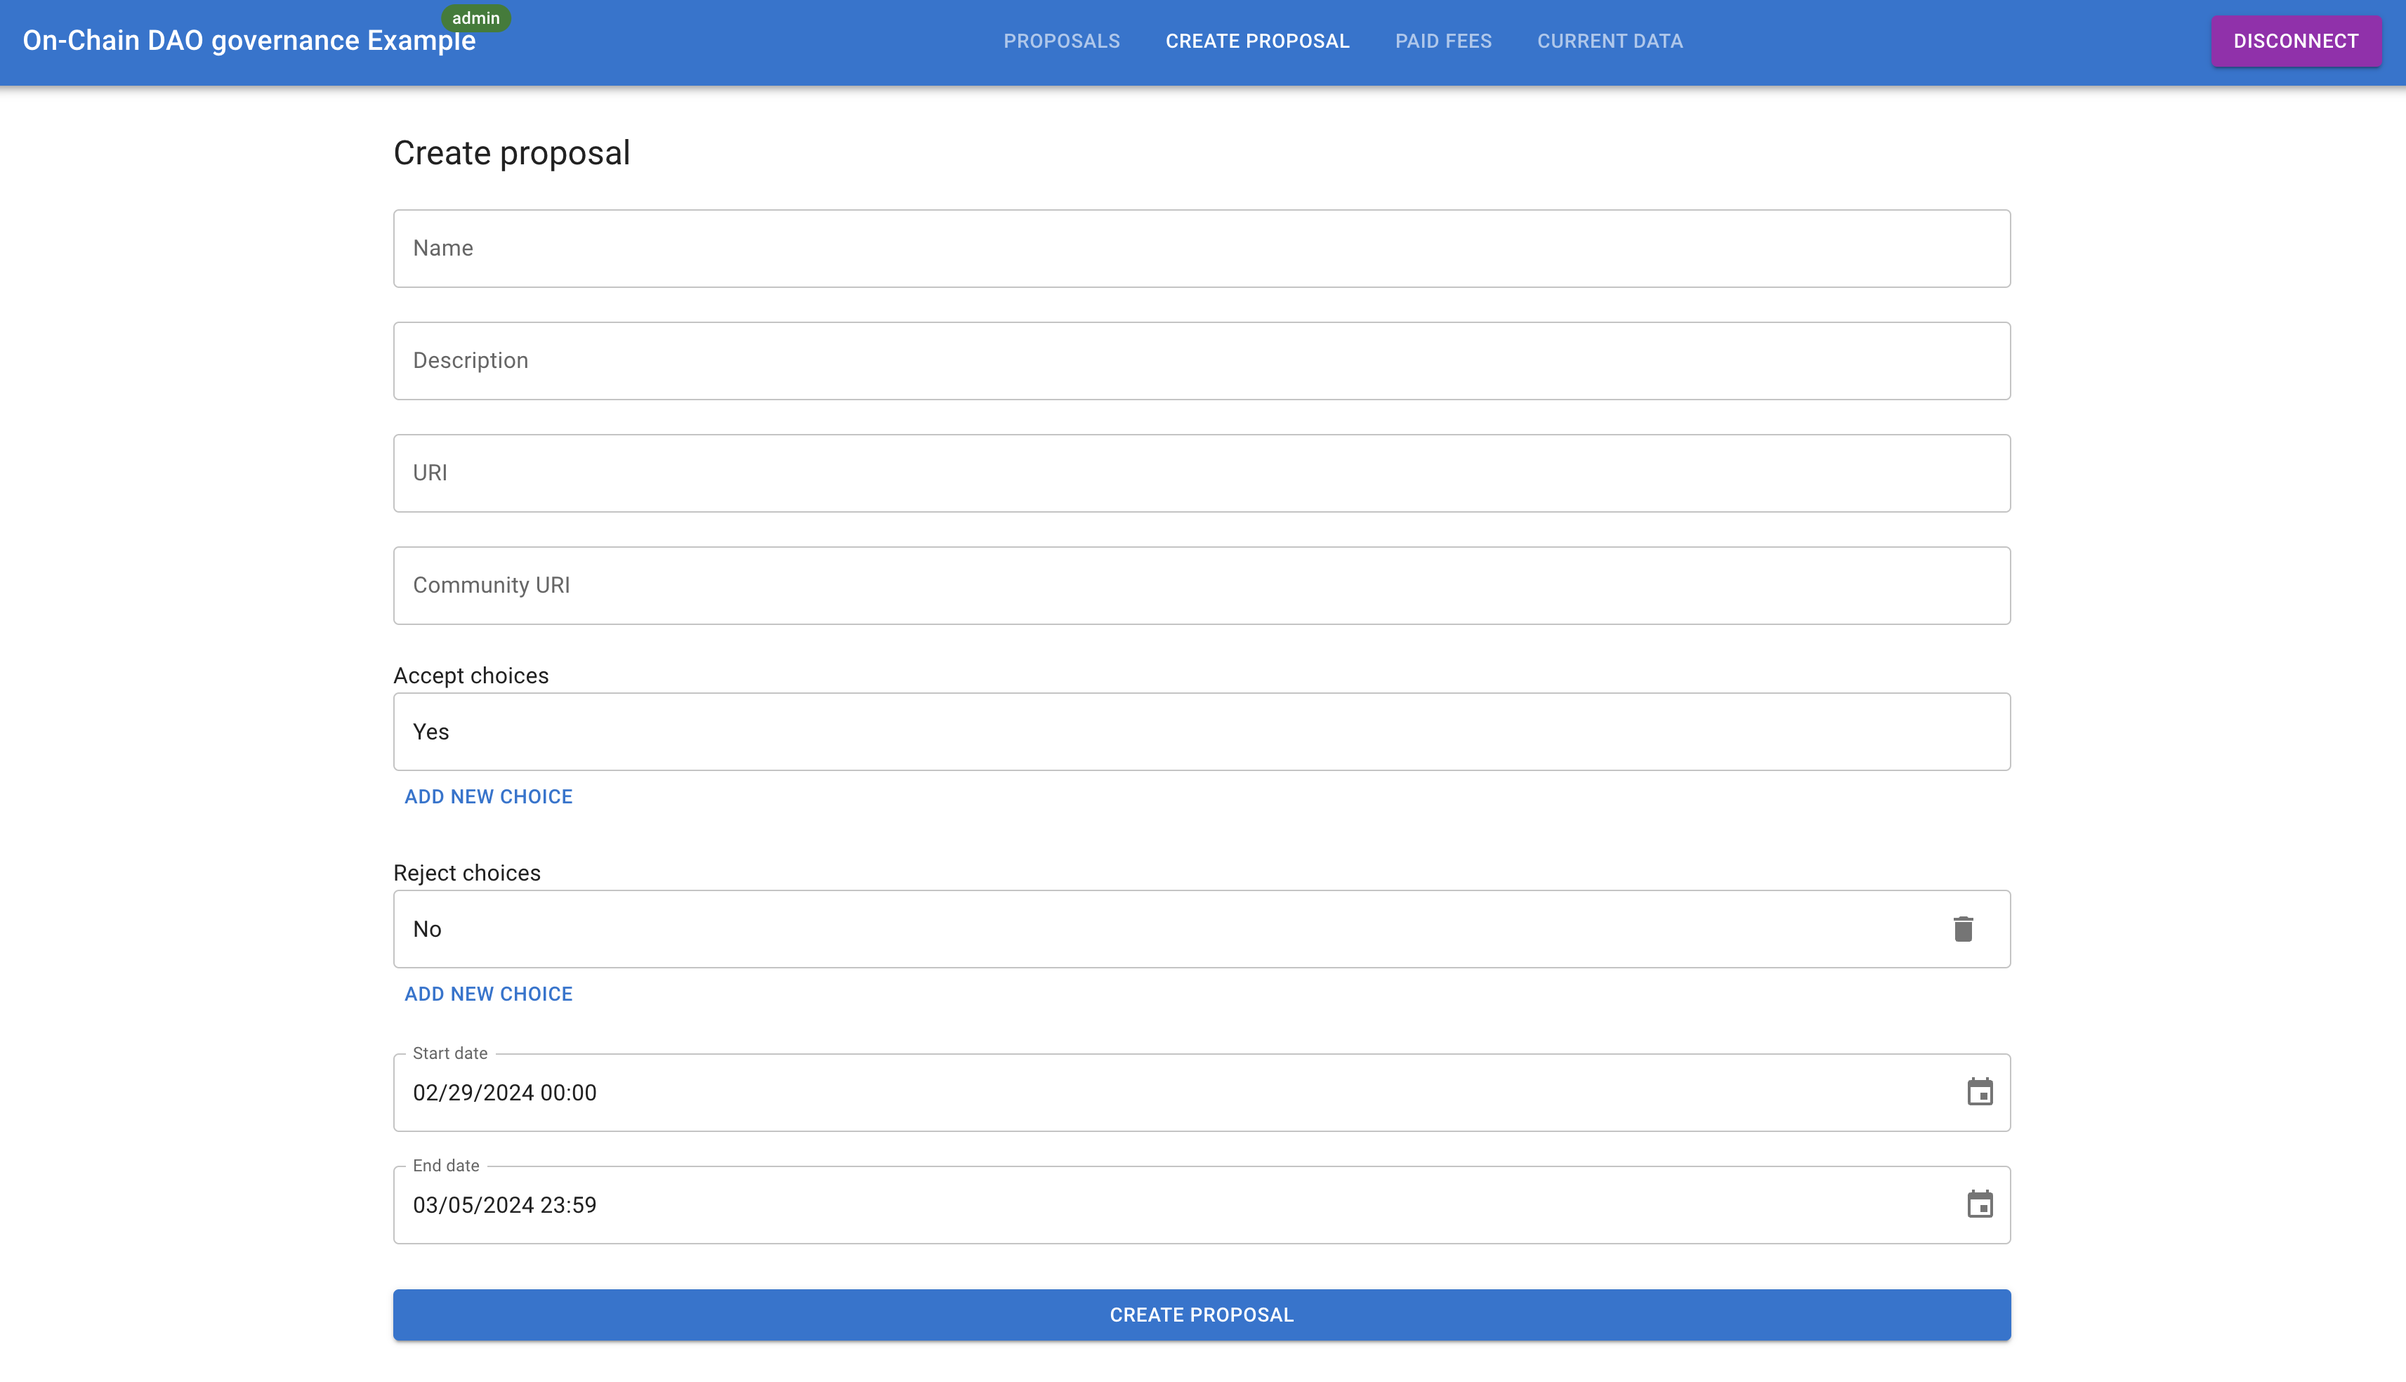
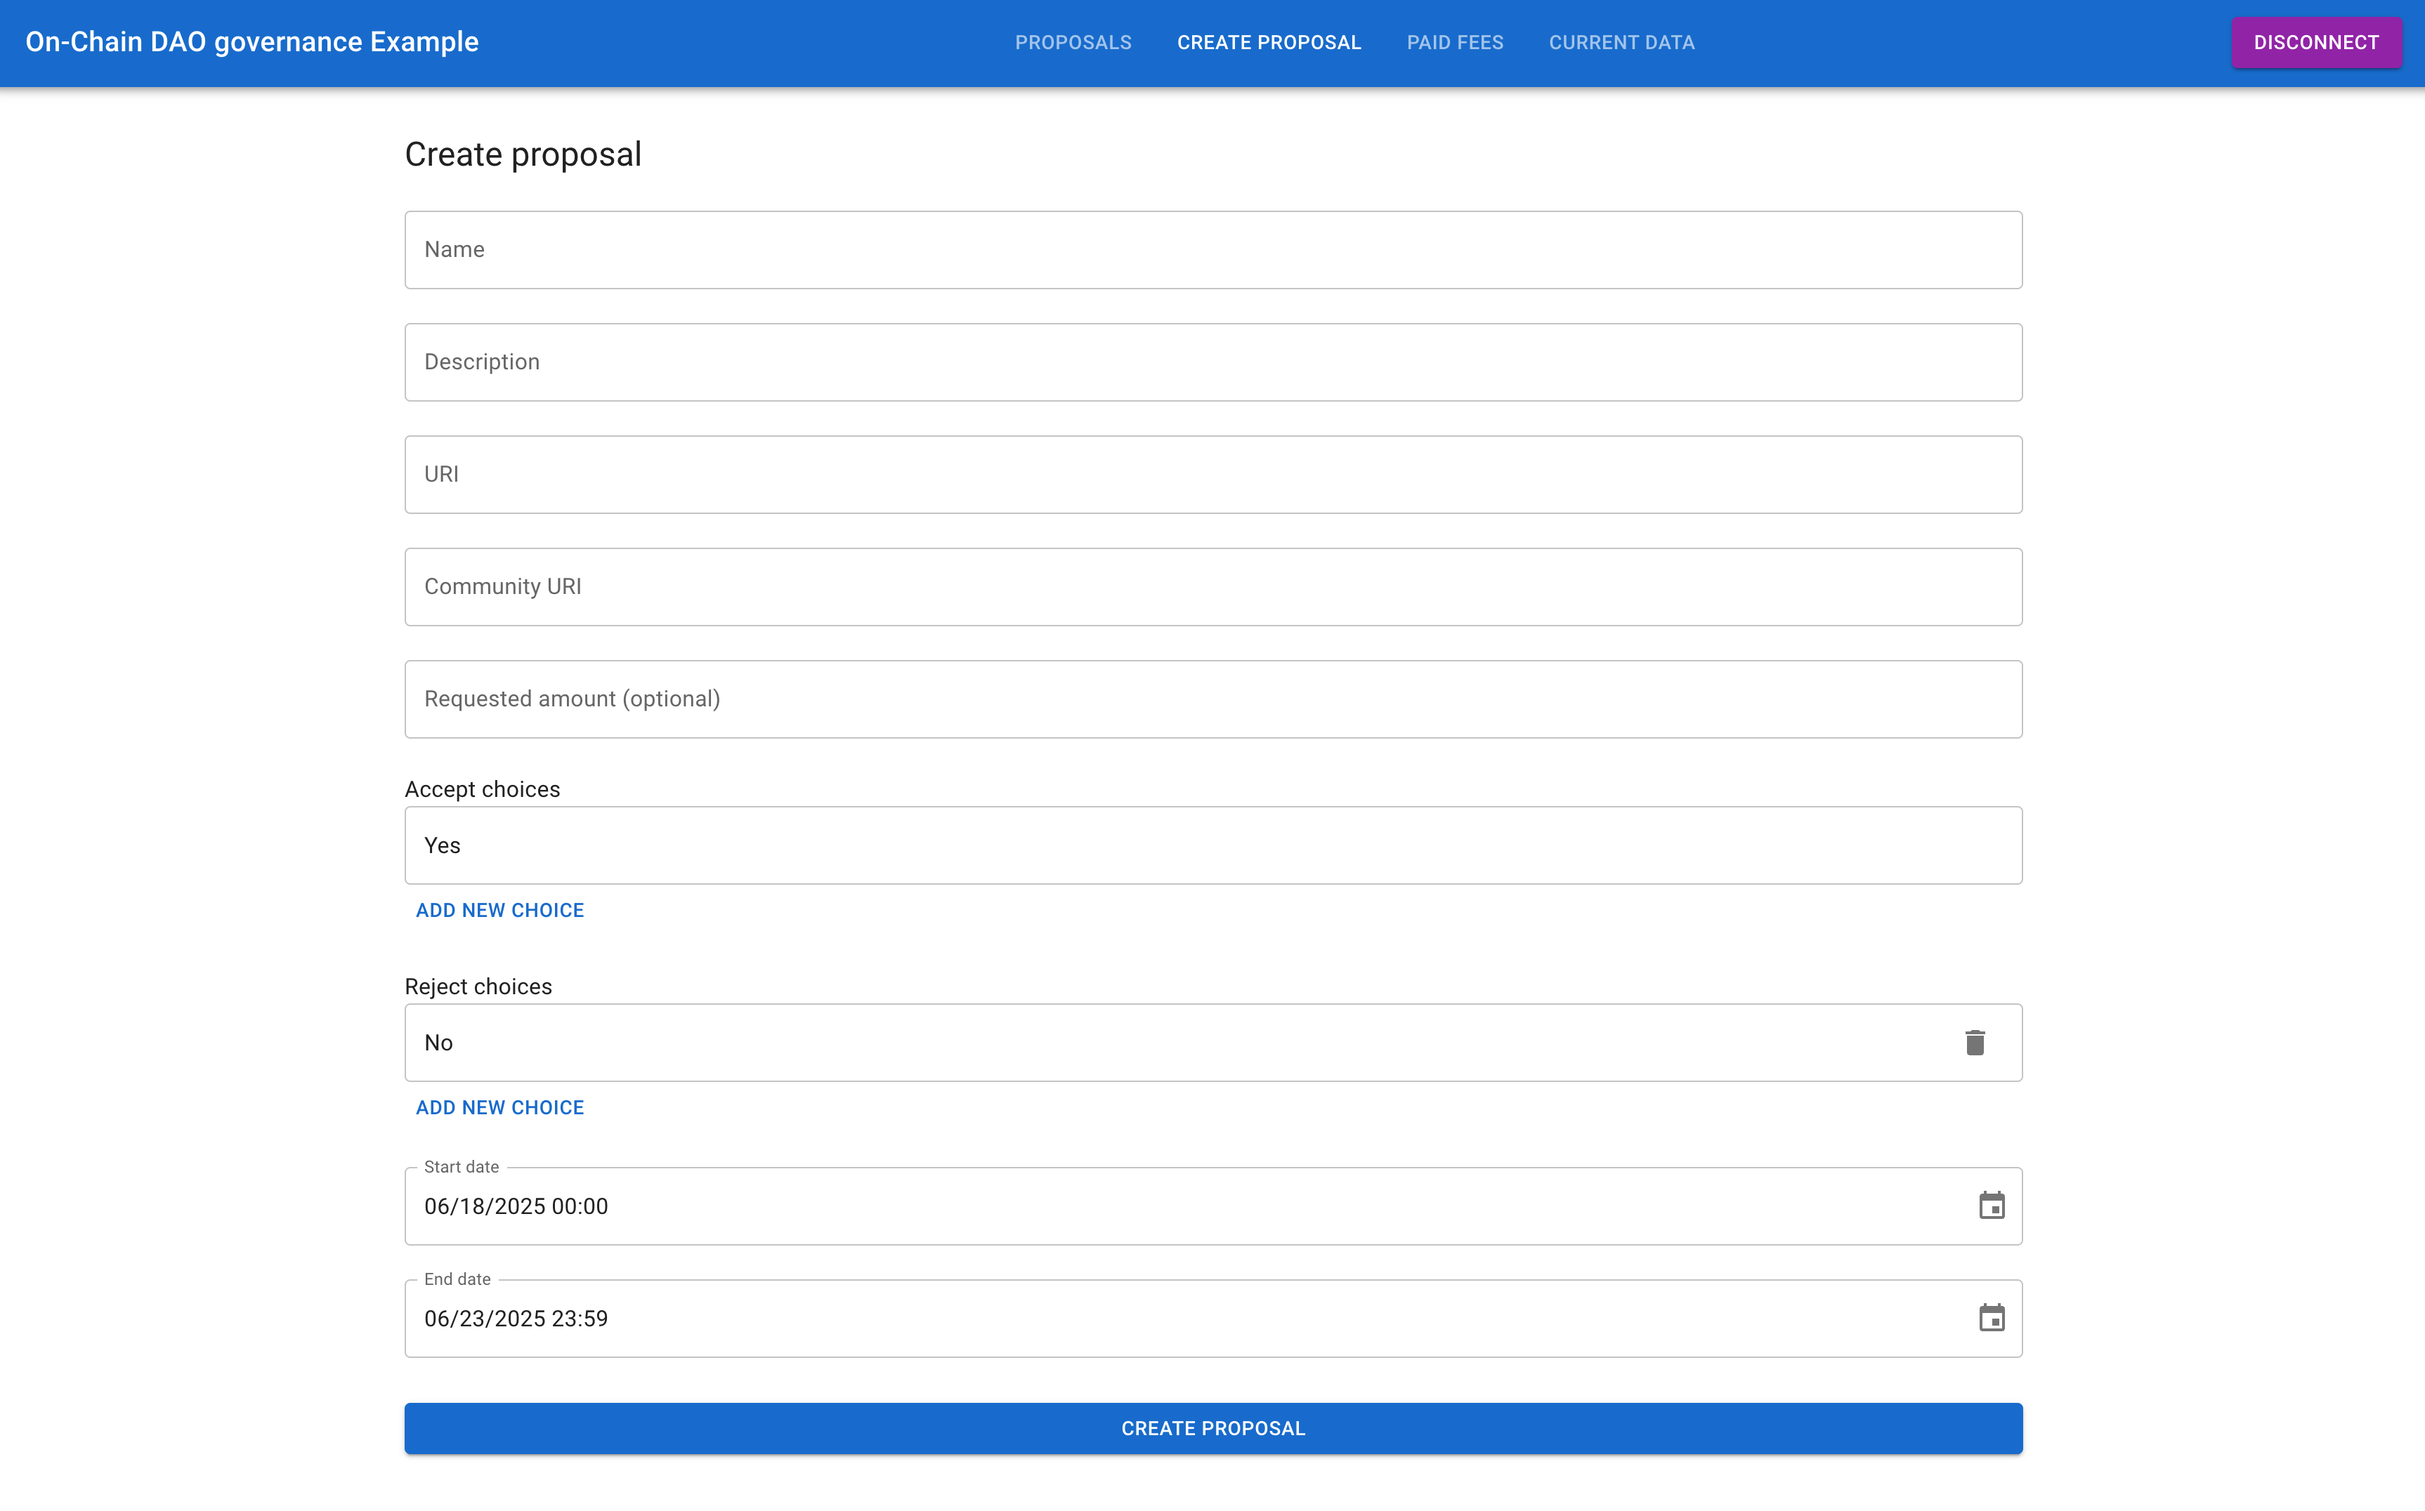
Add support for requested amount in proposals (#107)
* [SDK] Encode and decode requestAmount

* [BE] Store requestedAmount in the db and return it in the API

* [FE-SDK] Bump version

* [FE-EXAMPLE] Update the example app

* Review suggestions

diff --git a/frontend/react/example/src/features/createProposal/CreateProposal.tsx b/frontend/react/example/src/features/createProposal/CreateProposal.tsx
@@ -16,6 +16,7 @@ import {useVotingParamsQuery} from '@wingriders/governance-frontend-react-sdk'
 import {useUserBalance} from '../../helpers/userBalance'
 import {assetQuantity} from '@wingriders/cab/ledger/assets'
 import {AssetQuantityDisplay} from '../../components/AssetQuantityDisplay'
+import {BigNumber} from '@wingriders/cab/types'
 
 const DEFAULT_VALUES: CreateProposalForm = {
   name: '',
@@ -26,6 +27,7 @@ const DEFAULT_VALUES: CreateProposalForm = {
   rejectChoices: [{id: nanoid(), label: 'No'}],
   start: startOfDay(addDays(new Date(), 1)),
   end: endOfDay(addDays(new Date(), 6)),
+  requestedAmount: undefined,
 }
 
 export const CreateProposal = () => {
@@ -63,7 +65,7 @@ export const CreateProposal = () => {
   const hasEnoughChoices = compact(acceptChoices).length + compact(rejectChoices).length >= 2
 
   const handleCreateProposal = async (data: CreateProposalForm) => {
-    if (!ownerAddress) return
+    if (!ownerAddress || !governanceToken) return
 
     const {isSuccess} = await createProposal({
       poll: {
@@ -80,6 +82,9 @@ export const CreateProposal = () => {
         communityUri: data.communityUri,
         acceptChoices: data.acceptChoices.map((choice) => choice.label),
         rejectChoices: data.rejectChoices.map((choice) => choice.label),
+        requestedAmount: data.requestedAmount
+          ? new BigNumber(data.requestedAmount).shiftedBy(governanceToken.metadata?.decimals ?? 0)
+          : undefined,
       },
     })
 
@@ -154,6 +159,31 @@ export const CreateProposal = () => {
                   {...field}
                   placeholder="https://community.yourapp.com/"
                   label="Community URI"
+                  size="medium"
+                />
+              )}
+              errors={errors}
+            />
+            <InputField
+              name="requestedAmount"
+              control={control}
+              rules={{
+                required: false,
+                validate: (value) => {
+                  if (!value) return true
+
+                  const parsedValue = new BigNumber(value)
+                  if (parsedValue.isNaN()) return 'Invalid amount'
+                  if (parsedValue.lte(0)) return 'Amount must be greater than 0'
+
+                  return true
+                },
+              }}
+              render={({field}) => (
+                <TextField
+                  {...field}
+                  placeholder="1000"
+                  label="Requested amount (optional)"
                   size="medium"
                 />
               )}

diff --git a/sdk/src/helpers/encodeMetadatum.ts b/sdk/src/helpers/encodeMetadatum.ts
@@ -18,15 +18,21 @@ import {
 } from '../types'
 
 export function encodeProposalMetadatum(proposal: ProposalMetadatum): TxMetadatumMap {
-  const encodedProposalProperties: TxMetadatumMap = new Map<TxMetadatum, TxMetadatum>([
-    [CborProposalField.PROPOSAL_OWNER, Buffer.from(addressToHex(proposal.owner), 'hex')],
-    [CborProposalField.PROPOSAL_NAME, proposal.name],
-    [CborProposalField.PROPOSAL_DESCRIPTION, splitMetadatumString(proposal.description)],
-    [CborProposalField.PROPOSAL_URI, proposal.uri],
-    [CborProposalField.PROPOSAL_COMMUNITY_URI, proposal.communityUri],
-    [CborProposalField.PROPOSAL_ACCEPT_CHOICES, proposal.acceptChoices],
-    [CborProposalField.PROPOSAL_REJECT_CHOICES, proposal.rejectChoices],
-  ])
+  const encodedProposalProperties: TxMetadatumMap = new Map<TxMetadatum, TxMetadatum>(
+    compact([
+      [CborProposalField.PROPOSAL_OWNER, Buffer.from(addressToHex(proposal.owner), 'hex')],
+      [CborProposalField.PROPOSAL_NAME, proposal.name],
+      [CborProposalField.PROPOSAL_DESCRIPTION, splitMetadatumString(proposal.description)],
+      [CborProposalField.PROPOSAL_URI, proposal.uri],
+      [CborProposalField.PROPOSAL_COMMUNITY_URI, proposal.communityUri],
+      [CborProposalField.PROPOSAL_ACCEPT_CHOICES, proposal.acceptChoices],
+      [CborProposalField.PROPOSAL_REJECT_CHOICES, proposal.rejectChoices],
+      proposal.requestedAmount && [
+        CborProposalField.PROPOSAL_REQUESTED_AMOUNT,
+        proposal.requestedAmount.toString(),
+      ],
+    ])
+  )
   return encodedProposalProperties
 }
 

diff --git a/frontend/react/example/src/features/proposals/Proposal.tsx b/frontend/react/example/src/features/proposals/Proposal.tsx
@@ -190,6 +190,29 @@ export const Proposal = ({proposal}: ProposalProps) => {
             </Stack>
           </Grid>
 
+          <>
+            <Grid item xs={8}>
+              <Typography variant="subtitle1" fontWeight="bold">
+                Requested amount:
+              </Typography>
+            </Grid>
+            <Grid item xs={4}>
+              <Typography variant="subtitle1" textAlign="end">
+                {proposal.requestedAmount ? (
+                  <AssetQuantityDisplay
+                    token={{
+                      ...votingParams.governanceToken.asset,
+                      quantity: new BigNumber(proposal.requestedAmount),
+                    }}
+                    assetMetadata={votingParams.governanceToken.metadata}
+                  />
+                ) : (
+                  '-'
+                )}
+              </Typography>
+            </Grid>
+          </>
+
           <Grid item xs={8}>
             <Typography variant="subtitle1" fontWeight="bold">
               Your voting power for this proposal:

diff --git a/sdk/src/types.ts b/sdk/src/types.ts
@@ -36,6 +36,7 @@ export enum CborProposalField {
   PROPOSAL_COMMUNITY_URI = 'communityUri',
   PROPOSAL_ACCEPT_CHOICES = 'acceptChoices',
   PROPOSAL_REJECT_CHOICES = 'rejectChoices',
+  PROPOSAL_REQUESTED_AMOUNT = 'requestedAmount',
 }
 
 export enum CborPollField {
@@ -68,6 +69,7 @@ export type ProposalMetadatum = {
   communityUri: string /* community discussion link max 64 bytes. Use url shortener. Ideally community page link */
   acceptChoices: string[] /* List of choices that would lead to accept the proposal, each max 64 bytes */
   rejectChoices: string[] /* List of choices that would lead to reject the proposal, each max 64 bytes */
+  requestedAmount?: BigNumber
 }
 
 export type Proposal = ProposalMetadatum & {
@@ -218,6 +220,7 @@ export type ProposalDetails = {
   status: ProposalStatus
   acceptChoices: string[]
   rejectChoices: string[]
+  requestedAmount?: string
 }
 
 export type ProposalResponse = ProposalDetails & {

diff --git a/sdk/src/helpers/metadata.ts b/sdk/src/helpers/metadata.ts
@@ -1,7 +1,7 @@
 import {isArray, isMap, isString} from 'lodash'
 
 import {encodeAddress} from '@wingriders/cab/ledger/address'
-import {Address, TxMetadatum} from '@wingriders/cab/types'
+import {Address, BigNumber, TxMetadatum} from '@wingriders/cab/types'
 
 export function parseBuffer(datum: TxMetadatum | undefined): Buffer {
   if (!Buffer.isBuffer(datum)) {
@@ -35,6 +35,14 @@ export function parseInteger(datum: TxMetadatum | undefined): number {
   } else {
     throw new Error(`Metadatum is not a integer ${datum}`)
   }
+}
+
+export function parseBigNumber(datum: TxMetadatum | undefined): BigNumber {
+  if (typeof datum === 'string' || typeof datum === 'number') {
+    const num = new BigNumber(datum)
+    if (!num.isNaN()) return num
+  }
+  throw new Error(`Metadatum is not a number ${datum}`)
 }
 
 export function parseString(datum: TxMetadatum | undefined): string {

diff --git a/sdk/src/helpers/decodeMetadatum.ts b/sdk/src/helpers/decodeMetadatum.ts
@@ -18,6 +18,7 @@ import {
   assertMetadatumMap,
   parseAddressBuffer,
   parseArray,
+  parseBigNumber,
   parseBuffer,
   parseInteger,
   parseNumber,
@@ -39,6 +40,9 @@ export const decodeProposalMetadatum = (proposalMetadatum: TxMetadatumMap): Prop
     proposalMetadatum.get(CborProposalField.PROPOSAL_REJECT_CHOICES)
   )
 
+  const requestedAmountField = proposalMetadatum.get(CborProposalField.PROPOSAL_REQUESTED_AMOUNT)
+  const requestedAmount = requestedAmountField ? parseBigNumber(requestedAmountField) : undefined
+
   if (acceptChoices.length === 0 && rejectChoices.length === 0) {
     throw new Error('Proposal needs at least 1 choice')
   }
@@ -51,6 +55,7 @@ export const decodeProposalMetadatum = (proposalMetadatum: TxMetadatumMap): Prop
     communityUri,
     acceptChoices,
     rejectChoices,
+    requestedAmount,
   }
 }
 

diff --git a/backend/src/server/routes/toApiProposalDetails.ts b/backend/src/server/routes/toApiProposalDetails.ts
@@ -23,7 +23,15 @@ const dbProposalStatusToApiProposalStatus = (dbProposalStatus: DbProposalStatus)
 
 type DbProposalWithDetails = Pick<
   Proposal,
-  'txHash' | 'outputIndex' | 'ownerAddress' | 'name' | 'description' | 'uri' | 'communityUri' | 'slot'
+  | 'txHash'
+  | 'outputIndex'
+  | 'ownerAddress'
+  | 'name'
+  | 'description'
+  | 'uri'
+  | 'communityUri'
+  | 'slot'
+  | 'requestedAmount'
 > & {
   poll: Pick<Poll, 'txHash' | 'start' | 'end' | 'snapshot' | 'description'>
   proposalStates: Pick<ProposalState, 'status'>[]
@@ -55,4 +63,5 @@ export const toApiProposalDetails = (proposal: DbProposalWithDetails): ApiPropos
   rejectChoices: proposal.proposalChoices
     .filter((choice) => choice.type === ProposalChoiceType.REJECT)
     .map((choice) => choice.value),
+  requestedAmount: proposal.requestedAmount?.toString(),
 })

diff --git a/backend/src/sync/governanceOp.ts b/backend/src/sync/governanceOp.ts
@@ -14,6 +14,7 @@ import {
 
 import {config, governanceToken, proposalsAddress} from '../config'
 import {Block, PrismaTxClient, ProposalChoiceType, ProposalStatus} from '../db/prismaClient'
+import {bigNumberToBigint} from '../helpers/number'
 import {logger} from '../logger'
 import {getTokenQuantity} from '../ogmios/getTokenQuantity'
 import {assertMetadatumMap, parseMetadatumLabel} from '../ogmios/metadata'
@@ -138,6 +139,9 @@ async function processAddProposal({
       description: manageData.proposal.description,
       uri: manageData.proposal.uri,
       communityUri: manageData.proposal.communityUri,
+      requestedAmount: manageData.proposal.requestedAmount
+        ? bigNumberToBigint(manageData.proposal.requestedAmount)
+        : null,
       poll: pollCreateSql,
       proposalChoices: {
         create: choices,

diff --git a/backend/src/db/proposalDetailsPrismaSelect.ts b/backend/src/db/proposalDetailsPrismaSelect.ts
@@ -35,5 +35,6 @@ export const proposalDetailsPrismaSelect = (withVotes: boolean) =>
         index: 'asc',
       },
     },
+    requestedAmount: true,
     ...(withVotes ? {votes: true} : {}),
   }) as const

diff --git a/frontend/react/example/src/features/createProposal/types.ts b/frontend/react/example/src/features/createProposal/types.ts
@@ -12,4 +12,5 @@ export type CreateProposalForm = {
   rejectChoices: CreateProposalChoice[]
   start: Date
   end: Date
+  requestedAmount?: string
 }

diff --git a/backend/src/helpers/number.ts b/backend/src/helpers/number.ts
@@ -1,0 +1,3 @@
+import {BigNumber} from '@wingriders/cab/types'
+
+export const bigNumberToBigint = (value: BigNumber) => BigInt(value.toString())

diff --git a/frontend/react/example/README.md b/frontend/react/example/README.md
@@ -30,12 +30,13 @@ Each proposal will display these attributes:
 3. Link to the IPFS document
 4. Link to the community discussion
 5. Address of the proposal creator
-6. Your voting power for this proposal (if your wallet is connected)
-7. Current voting participation
-8. Proposal choices
-9. Option to vote for the proposal (if your wallet is connected)
-10. Option to cancel the proposal (if you connect with the DAO admin wallet)
-11. Option to conclude the proposal (if you connect with the DAO admin wallet and the proposal is past it's end time)
+6. Requested amount of governance tokens if the proposals passes (if filled out during the proposal creation)
+7. Your voting power for this proposal (if your wallet is connected)
+8. Current voting participation
+9. Proposal choices
+10. Option to vote for the proposal (if your wallet is connected)
+11. Option to cancel the proposal (if you connect with the DAO admin wallet)
+12. Option to conclude the proposal (if you connect with the DAO admin wallet and the proposal is past it's end time)
 
 ### Proposal creation
 
@@ -48,10 +49,11 @@ Fields description:
 2. **Description**: a brief description or details about the proposal
 3. **URI**: unique IPFS resource identifier, linked to a file or content related to the proposal and describing it in details
 4. **Community URL**: link to the community or discussion platform relevant to the proposal
-5. **Accept choices**: options community members can choose to accept the proposal
-6. **Reject choices**: options community members can choose to reject the proposal
-7. **Start date**: start date of the poll (date & time, by default the same date will be used for voting power snapshot)
-8. **End date**: end date of the poll (date & time)
+5. **Requested amount**: the amount of the governance tokens that the proposal creator is requesting if the proposal passes
+6. **Accept choices**: options community members can choose to accept the proposal
+7. **Reject choices**: options community members can choose to reject the proposal
+8. **Start date**: start date of the poll (date & time, by default the same date will be used for voting power snapshot)
+9. **End date**: end date of the poll (date & time)
 
 > **_NOTE:_** The form has only limited validation and will allow you to submit potentially incorrect data.
 
